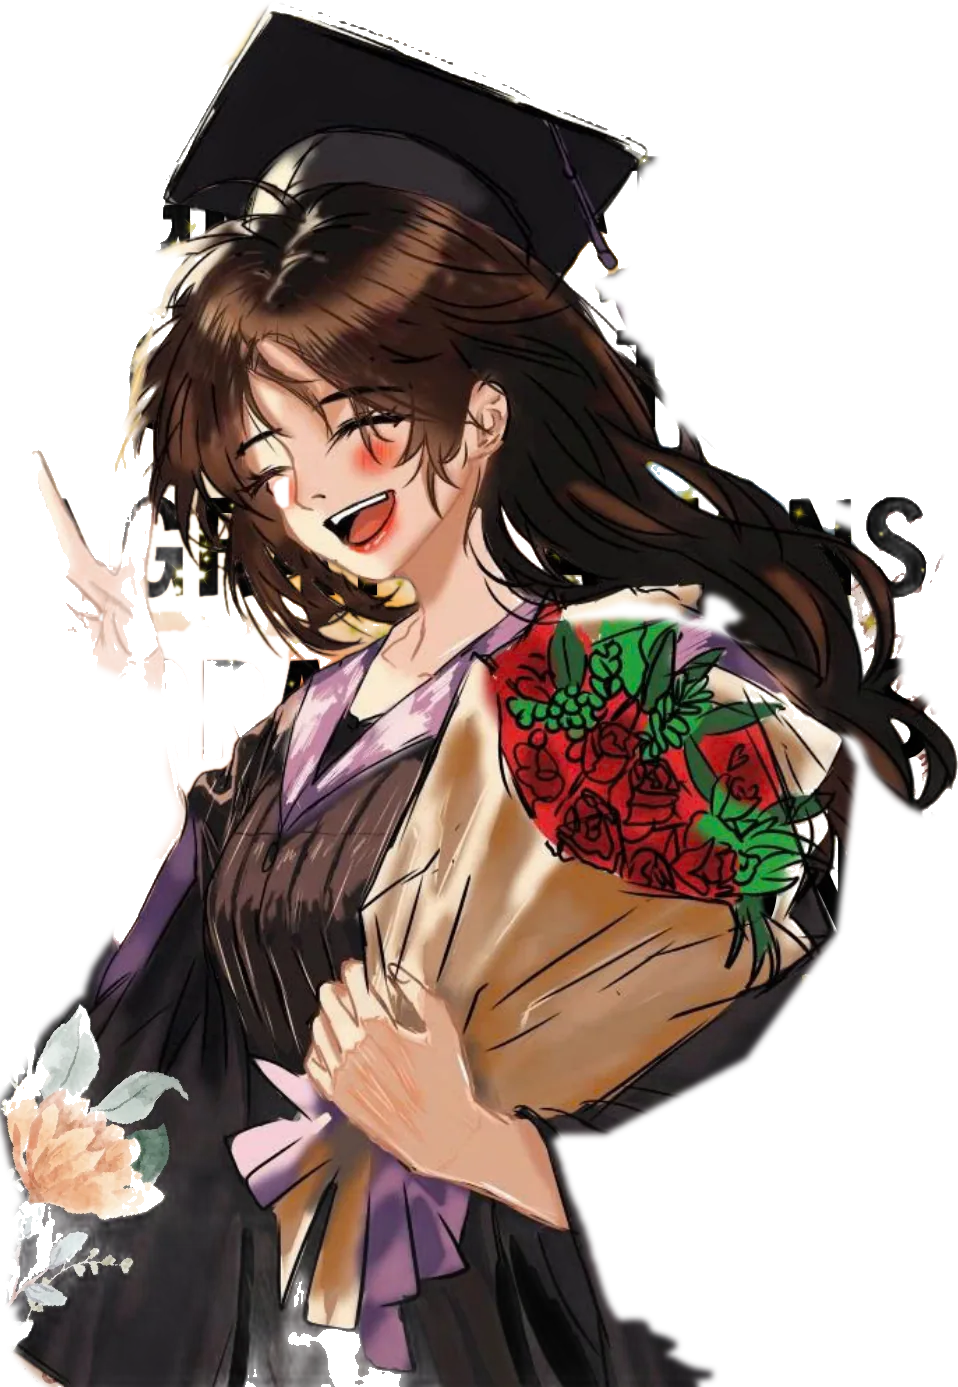
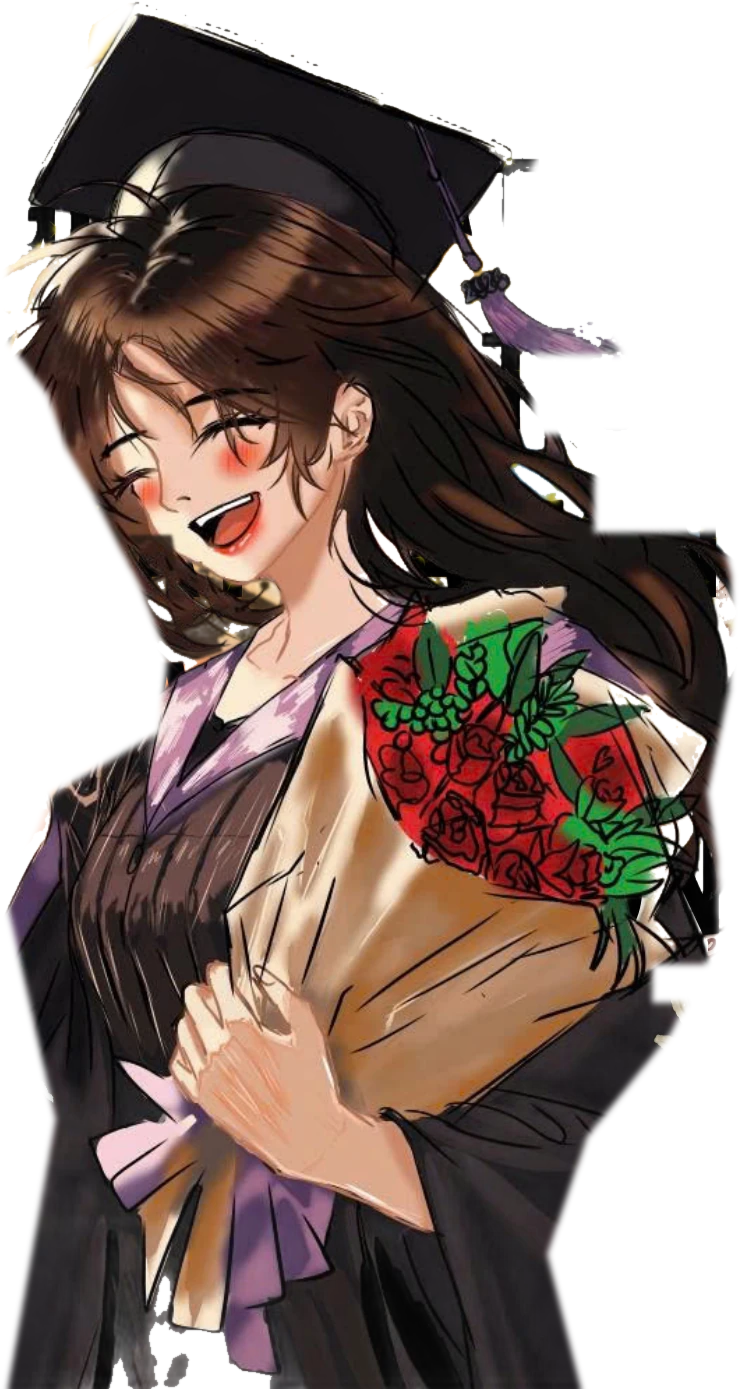
fix(site): lift subject off the page on reveal; legible notes on mobile
The hero reveal no longer floats the isolated cut-out on an empty
backdrop. The subject now stays exactly over its own baked artwork while
the poster recedes with a depth-of-field blur, so its rim blends into the
identical art beneath (no torn edge) and the baked twin is never exposed
(no double image). On narrow portrait screens the two sealed notes are
enlarged, pulled apart and given a calmer glow so they read as distinct.

diff --git a/index.html b/index.html
@@ -12,7 +12,7 @@
 <meta property="og:image" content="assets/poster.webp" />
 <link rel="preconnect" href="https://fonts.googleapis.com" />
 <link rel="preconnect" href="https://fonts.gstatic.com" crossorigin />
-<link href="https://fonts.googleapis.com/css2?family=Playfair+Display:ital,wght@0,500;0,700;0,900;1,500&family=Caveat:wght@500;700&family=Be+Vietnam+Pro:wght@300;400;600&display=swap&subset=vietnamese,latin" rel="stylesheet" />
+<link href="https://fonts.googleapis.com/css2?family=Playfair+Display:ital,wght@0,500;0,700;0,900;1,500&family=Dancing+Script:wght@500;600;700&family=Be+Vietnam+Pro:wght@300;400;600&display=swap&subset=vietnamese,latin" rel="stylesheet" />
 <style>
   :root{
     --paper:#ece0c6; --paper-2:#e2d2ae; --ink:#241d14; --ink-soft:#4a3d2c;
@@ -61,7 +61,7 @@
     transform-origin:50% 50%;
   }
   #girl{
-    left:61.423%; top:24.62%; width:36.846%; height:auto;
+    left:66.615%; top:24.511%; width:28.423%; height:auto;
     z-index:20; transform-origin:50% 90%;
     filter:drop-shadow(-10px 18px 22px rgba(35,20,6,.42));
   }
@@ -101,16 +101,16 @@
   .btn svg{ width:20px; height:20px; }
   #hint{
     position:absolute; left:50%; bottom:calc(env(safe-area-inset-bottom,0) + 22px); transform:translateX(-50%);
-    font-family:"Caveat", cursive; font-size:clamp(17px,2.4vw,22px); color:var(--ink-soft);
-    letter-spacing:.02em; opacity:0; transition:opacity 1s ease; text-align:center;
+    font-family:"Dancing Script", cursive; font-weight:600; font-size:clamp(19px,2.7vw,25px); color:var(--ink-soft);
+    letter-spacing:.01em; line-height:1.4; opacity:0; transition:opacity 1s ease; text-align:center;
     text-shadow:0 1px 0 rgba(255,248,232,.6); white-space:nowrap;
   }
   #hint.show{ opacity:.85; }
   #hint.fade{ opacity:0; }
   #signature{
     position:absolute; right:clamp(14px,3vw,42px); bottom:calc(env(safe-area-inset-bottom,0) + 16px);
-    font-family:"Caveat", cursive; font-size:clamp(19px,2.6vw,28px); color:#7a4d1c;
-    opacity:0; transform:translateY(8px); transition:opacity 1.2s ease, transform 1.2s ease;
+    font-family:"Dancing Script", cursive; font-weight:600; font-size:clamp(21px,2.9vw,31px); color:#7a4d1c;
+    line-height:1.5; opacity:0; transform:translateY(8px); transition:opacity 1.2s ease, transform 1.2s ease;
     text-shadow:0 1px 0 rgba(255,248,232,.5);
   }
   #signature.show{ opacity:.92; transform:none; }
@@ -148,11 +148,26 @@
     background:radial-gradient(circle at 38% 32%, #ff9a3c, #e8681a 60%, #b64c0f 100%);
     box-shadow:0 5px 11px rgba(120,50,10,.42), inset 0 -4px 8px rgba(120,40,6,.5), inset 0 3px 6px rgba(255,210,150,.6);
   }
-  .ml-name{ font-family:"Caveat",cursive; font-weight:700; font-size:clamp(16px,2.1vw,24px); color:#5a3a16; line-height:1; }
+  .ml-name{ font-family:"Dancing Script",cursive; font-weight:700; font-size:clamp(18px,2.4vw,27px); color:#5a3a16; line-height:1.15; }
   .ml-open{ font-family:"Be Vietnam Pro",sans-serif; font-weight:400; font-size:clamp(9px,1.15vw,12px);
     color:#7a5a2e; letter-spacing:.02em; display:flex; align-items:center; gap:6px; }
   .ml-open .dot{ width:7px; height:7px; border-radius:50%; background:var(--orange);
     box-shadow:0 0 0 0 rgba(239,127,26,.5); animation:pulse 1.8s ease-out infinite; }
+  /* on a narrow portrait phone the poster is a small band, so the two sealed notes
+     are enlarged, pulled apart and given a calmer glow — never crowded or merged */
+  @media (max-width:600px){
+    .msg-letter{ height:auto !important; padding:15px 10px 17px !important; gap:7px !important; border-radius:9px; }
+    .msg-letter[data-msg="hana"]{ left:6%  !important; top:74% !important; width:41% !important; --rot:-2deg; }
+    .msg-letter[data-msg="nhnd"]{ left:53% !important; top:74% !important; width:41% !important; --rot:1.6deg; }
+    .msg-letter .ml-seal{ width:36px !important; height:36px; font-size:18px !important; margin-bottom:2px; }
+    .msg-letter .ml-name{ font-size:23px !important; }
+    .msg-letter .ml-open{ font-size:12px !important; }
+    .msg-letter.in{ animation:cardGlowSoft 3s ease-in-out infinite; }
+  }
+  @keyframes cardGlowSoft{
+    0%,100%{ box-shadow:0 10px 22px -12px rgba(60,40,14,.62), inset 0 2px 0 rgba(255,244,222,.5); }
+    50%{ box-shadow:0 12px 24px -12px rgba(60,40,14,.62), 0 0 14px 1px rgba(239,127,26,.34), inset 0 2px 0 rgba(255,244,222,.5); }
+  }
 
   #msgModal{ position:fixed; inset:0; z-index:130; display:grid; place-items:center; padding:22px;
     background:rgba(28,16,4,.5); backdrop-filter:blur(7px); -webkit-backdrop-filter:blur(7px);
@@ -169,9 +184,9 @@
     box-shadow:0 2px 5px rgba(80,54,20,.16); }
   .mc-label{ font-family:"Be Vietnam Pro",sans-serif; font-size:11px; letter-spacing:.16em; text-transform:uppercase;
     color:#a98a58; margin-bottom:6px; }
-  .mc-from{ font-family:"Caveat",cursive; font-weight:700; font-size:30px; color:var(--orange); line-height:1; margin-bottom:16px; }
+  .mc-from{ font-family:"Dancing Script",cursive; font-weight:700; font-size:33px; color:var(--orange); line-height:1.2; margin-bottom:14px; }
   .mc-body{ font-family:"Be Vietnam Pro",sans-serif; font-weight:300; font-size:16px; line-height:1.75; color:#3f3320; white-space:pre-line; }
-  .mc-sign{ margin-top:20px; text-align:right; font-family:"Caveat",cursive; font-weight:700; font-size:23px; color:#7a4d1c; }
+  .mc-sign{ margin-top:20px; text-align:right; font-family:"Dancing Script",cursive; font-weight:700; font-size:26px; line-height:1.4; color:#7a4d1c; }
   .mc-close{ position:absolute; top:10px; right:12px; width:34px; height:34px; border:0; border-radius:50%;
     background:rgba(120,84,40,.12); color:#6c5836; font-size:17px; cursor:pointer; display:grid; place-items:center;
     transition:background .2s ease; }
@@ -191,8 +206,8 @@
   #intro.gone{ opacity:0; transform:scale(1.12); filter:blur(8px); pointer-events:none; }
 
   .intro-stack{ position:relative; display:flex; flex-direction:column; align-items:center; gap:26px; padding:24px; text-align:center; }
-  .kicker{ font-family:"Caveat",cursive; font-size:clamp(20px,3.4vw,30px); color:#a85f18; letter-spacing:.04em;
-    transform:rotate(-2deg); }
+  .kicker{ font-family:"Dancing Script",cursive; font-weight:600; font-size:clamp(24px,4vw,36px); color:#a85f18; letter-spacing:.01em;
+    line-height:1.4; transform:rotate(-2deg); }
   .kicker b{ color:var(--orange); font-weight:700; }
 
   /* envelope */
@@ -229,9 +244,9 @@
   .pocket::before{ content:""; position:absolute; inset:0; opacity:.5; mix-blend-mode:multiply;
     background:repeating-linear-gradient(135deg, rgba(150,108,58,.07) 0 3px, rgba(150,108,58,0) 3px 7px);
     clip-path:polygon(0 16%, 50% 1%, 100% 16%, 100% 100%, 0 100%); }
-  .letter .l-title{ font-family:"Playfair Display",serif; font-weight:700; font-size:clamp(19px,3vw,26px); color:#3a2c18; line-height:1.15; }
-  .letter .l-sub{ font-family:"Be Vietnam Pro",sans-serif; font-weight:300; font-size:clamp(12px,1.7vw,14px); color:#6c5836; }
-  .letter .l-orange{ font-family:"Caveat",cursive; font-weight:700; font-size:clamp(26px,4.4vw,38px); color:var(--orange); margin-top:2px; }
+  .letter .l-title{ font-family:"Playfair Display",serif; font-weight:700; font-size:clamp(19px,3vw,26px); color:#3a2c18; line-height:1.32; }
+  .letter .l-sub{ font-family:"Be Vietnam Pro",sans-serif; font-weight:300; font-size:clamp(12px,1.7vw,14px); color:#6c5836; line-height:1.4; }
+  .letter .l-orange{ font-family:"Dancing Script",cursive; font-weight:700; font-size:clamp(24px,4vw,34px); color:var(--orange); margin-top:4px; line-height:1.2; }
   /* flap */
   .flap{ position:absolute; left:0; right:0; top:0; height:56%; z-index:5; transform-origin:50% 0%;
     transition:transform 1s cubic-bezier(.5,0,.2,1); transform-style:preserve-3d; }
@@ -640,38 +655,41 @@
     setTimeout(startReveal, 950);          // once the flap has swung open
   }
 
-  // 1) the cut-out subject blooms in the CENTRE of the screen while the poster
-  //    waits behind as a soft, dimmed, blurred backdrop
+  // 1) she LIFTS OFF THE PAGE: the poster stays as the backdrop but recedes —
+  //    blurred, dimmed, pushed in — while she keeps sitting exactly over her own
+  //    baked twin and swells gently forward with a deeper shadow. Because she never
+  //    leaves her aligned spot, her rim blends into her identical art beneath (a real
+  //    depth-of-field subject isolation, never a cut-out on emptiness) and no second
+  //    baked girl is ever exposed (no double image).
   function startReveal(){
-    girl.style.transition="none";
-    girl.style.transformOrigin="50% 50%";
-    girl.style.transform="none";
-    const gr=girl.getBoundingClientRect();
-    const s=Math.min(innerWidth*0.82/gr.width, innerHeight*0.86/gr.height);
-    const dx=innerWidth/2  - (gr.left+gr.width/2);
-    const dy=innerHeight/2 - (gr.top +gr.height/2);
-    const centreT=`translate(${dx.toFixed(1)}px, ${dy.toFixed(1)}px) scale(${s.toFixed(3)})`;
-    // start a touch smaller for a gentle bloom
-    girl.style.transform=`translate(${dx.toFixed(1)}px, ${dy.toFixed(1)}px) scale(${(s*0.84).toFixed(3)})`;
-    poster.style.transition="none";
-    poster.style.filter="blur(15px) brightness(.66) saturate(.92)";
-    poster.style.transform="scale(1.14)";
-    void girl.offsetWidth;                 // commit, then animate
     intro.classList.add("gone");
-    girl.style.transition="transform 1s cubic-bezier(.2,.8,.2,1)";
-    girl.style.transform=centreT;
-    setTimeout(()=> burst(reduceMotion?16:40), 300);   // one tasteful firework at the hero beat
-    setTimeout(()=>{ intro.style.display="none"; }, 1150);
-    setTimeout(settleScene, 1900);
+    setTimeout(()=>{ intro.style.display="none"; }, 900);
+
+    // poster recedes behind her
+    poster.style.transition="filter 1.1s ease, transform 1.2s cubic-bezier(.2,.8,.2,1)";
+    poster.style.transformOrigin="72% 52%";              // push in toward her
+    poster.style.filter="blur(5px) brightness(.6) saturate(.85)";
+    poster.style.transform="scale(1.06)";
+
+    // she comes forward: subtle swell about her own centre + a deeper cast shadow.
+    // scale stays small so her enlarged rim only ever overlaps the dimmed backdrop.
+    girl.style.transition="transform 1.1s cubic-bezier(.2,.8,.2,1), filter 1.1s ease";
+    girl.style.transformOrigin="50% 60%";
+    girl.style.transform="scale(1.045)";
+    girl.style.filter="drop-shadow(-14px 26px 30px rgba(18,9,2,.55)) brightness(1.04) saturate(1.05)";
+
+    setTimeout(()=> burst(reduceMotion?16:36), 320);     // one tasteful firework at the hero beat
+    setTimeout(settleScene, 1650);
   }
 
-  // 2) she eases back into her place on the poster; the poster sharpens & brightens
+  // 2) the poster sharpens and brightens back up as she settles onto her place
   function settleScene(){
-    girl.style.transition="transform 1.15s cubic-bezier(.2,.8,.2,1)";
-    girl.style.transform="none";
-    poster.style.transition="filter 1.15s ease, transform 1.15s cubic-bezier(.2,.8,.2,1)";
+    poster.style.transition="filter 1s ease, transform 1.1s cubic-bezier(.2,.8,.2,1)";
     poster.style.filter="none";
     poster.style.transform="none";
+    girl.style.transition="transform 1.1s cubic-bezier(.2,.8,.2,1), filter 1s ease";
+    girl.style.transform="none";
+    girl.style.filter="";
     setTimeout(()=>{
       // hand the stage over to the live parallax loop
       girl.style.transition=""; poster.style.transition="";
